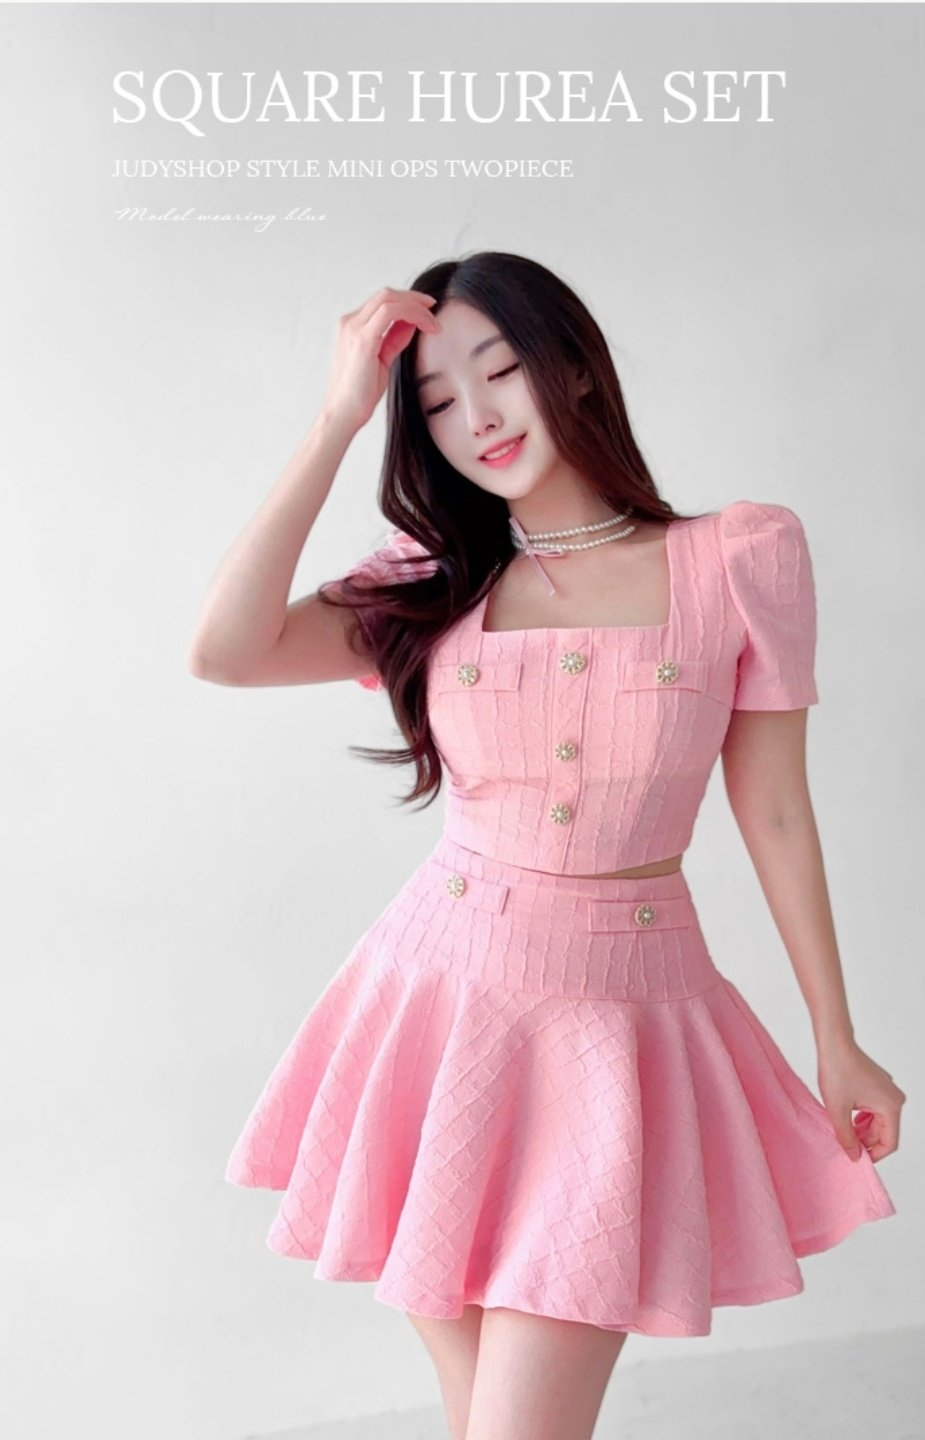
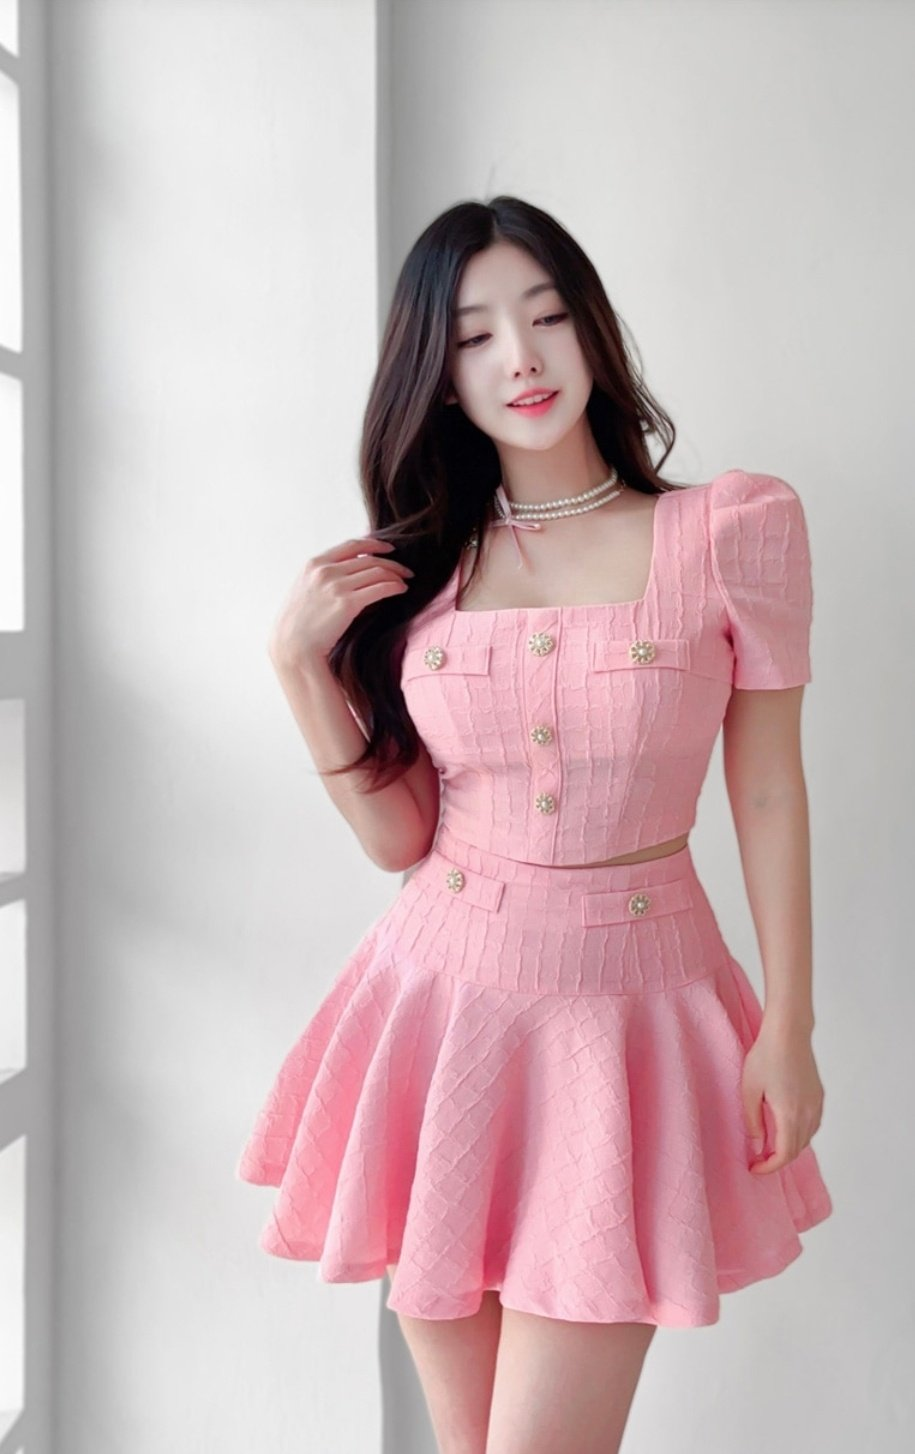
Update N260076 images

diff --git a/index.html b/index.html
@@ -851,7 +851,7 @@
     const panelBody = qs('#panelBody');
     const closeBtn = qs('#closeBtn');
 
-    const VERSION = 'match28';
+    const VERSION = 'match29';
     let PRODUCTS = [];
     let FILTER = 'ALL';
     let LANG = localStorage.getItem('niceLang') || 'kr';
